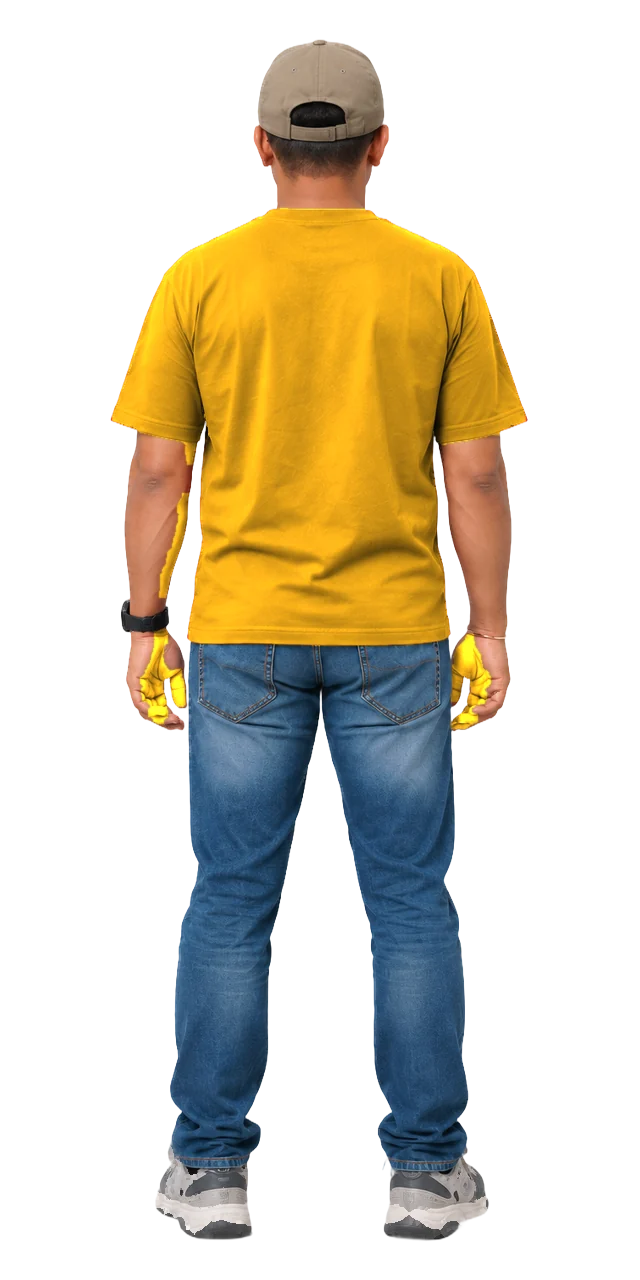
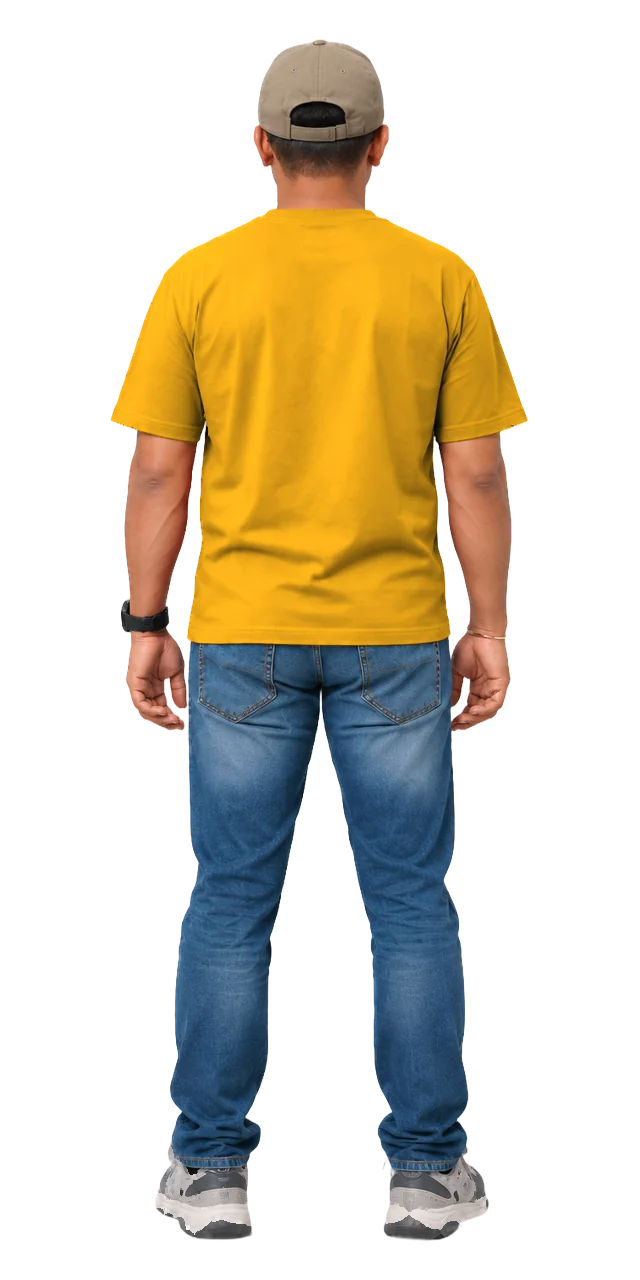
Clean up the dyed tees: no tinted hands, no red seams, real fold shading
- Seed the tee mask with true red only (hue < 8): the AI shots' warm skin sits at ~13, so the
  hands were being recoloured along with the tee.
- Small red blobs count as tee only within the tee's height, not hanging below the hem.
- Dye the red edge pixels and slivers next to the tee that the mask's opening drops (and the
  colour carried past the cut-out outline), which showed as red seams on the new colours.
- Take shading from the red channel rather than luminance, so the folds survive the dye.

Rebaked the cobalt, forest and marigold atlases and 2D frames; the mesh and crimson are unchanged.

Claude-Session: https://claude.ai/code/session_01Lw7fyE7FA6xKugCy6nu45Z

diff --git a/scripts/photos.py b/scripts/photos.py
@@ -56,16 +56,18 @@ def blobs(mask, keep):
 
 def tee_mask(rgba):
     h, sat, mx, al = hue_sat(rgba)
-    red = ndimage.binary_closing(((h < 16) | (h > 335)) & (sat > 0.5) & (mx > 0.12) & (al > 0.5), iterations=2)
+    # true red only: warm skin sits just past it (hue ~10-17 against the tee's ~-3)
+    red = ndimage.binary_closing(((h < 8) | (h > 335)) & (sat > 0.5) & (mx > 0.12) & (al > 0.5), iterations=2)
     lab, n = ndimage.label(red)
     if not n:
         return red
     sizes = ndimage.sum(red, lab, range(1, n + 1))
-    tee_top = np.where(lab == int(np.argmax(sizes)) + 1)[0].min()
+    rows = np.where(lab == int(np.argmax(sizes)) + 1)[0]
     cy = ndimage.center_of_mass(red, lab, range(1, n + 1))
-    # The tee, plus tee showing below its top edge (behind a hand). Lips and ears sit above it.
+    # The tee, plus tee showing within its height (behind a hand). Lips and ears sit above it, and
+    # hands hanging below the hem can be warm enough to pass for red.
     red = np.isin(lab, [i + 1 for i, v in enumerate(sizes)
-                        if v > 0.04 * sizes.max() or (v > 0.003 * sizes.max() and cy[i][0] > tee_top + 10)])
+                        if v > 0.04 * sizes.max() or (v > 0.003 * sizes.max() and rows.min() + 10 < cy[i][0] < rows.max())])
     # Shadowed folds: darker and less saturated, but still true red, and next to the tee.
     loose = ((h < 9) | (h > 338)) & (sat > 0.28) & (mx > 0.05) & (al > 0.3) & ndimage.binary_dilation(red, iterations=14)
     red = ndimage.binary_fill_holes(ndimage.binary_closing(red | loose, iterations=2))
@@ -75,13 +77,17 @@ def tee_mask(rgba):
 
 
 def dye(rgba, target):
-    """Recolours the tee, keeping the photo's shading (luminance relative to the tee's median)."""
+    """Recolours the tee, keeping the photo's shading (brightness relative to the tee's median)."""
     m = tee_mask(rgba)
+    h, sat, mx, _ = hue_sat(rgba)
+    # Edges and slivers the mask's opening drops (and colour carried past a cut-out's outline): still
+    # red, right next to the tee. Left undyed they show as red seams on the new colour.
+    m |= ((h < 9) | (h > 336)) & (sat > 0.3) & (mx > 0.05) & ndimage.binary_dilation(m, iterations=8)
     soft = np.asarray(Image.fromarray((m * 255).astype(np.uint8)).filter(ImageFilter.GaussianBlur(0.7))).astype(np.float32)[..., None] / 255
     a = np.asarray(rgba).astype(np.float32)
-    lum = a[..., :3] @ np.array([0.299, 0.587, 0.114])
-    shade = (lum / (np.median(lum[m]) if m.any() else 1))[..., None]
-    a[..., :3] = a[..., :3] * (1 - soft) + np.clip(np.array(target, np.float32) * shade ** 1.1, 0, 255) * soft
+    # the folds live in the red channel (the brightest one); luminance mostly averages them away
+    shade = (mx / (np.median(mx[m]) if m.any() else 1))[..., None]
+    a[..., :3] = a[..., :3] * (1 - soft) + np.clip(np.array(target, np.float32) * shade ** 1.25, 0, 255) * soft
     return Image.fromarray(a.astype(np.uint8), 'RGBA')
 
 
